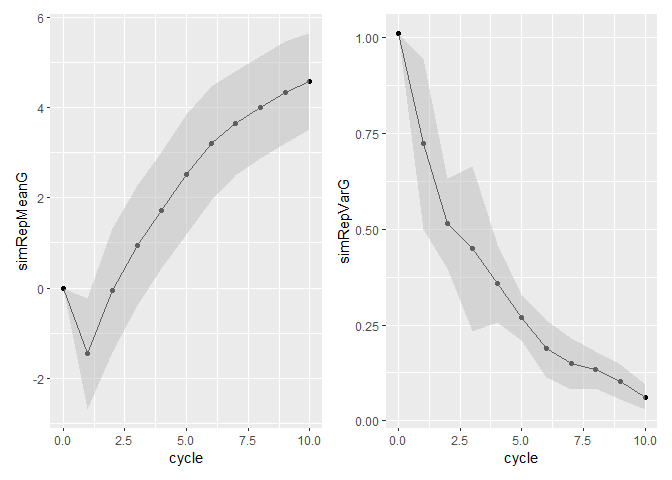
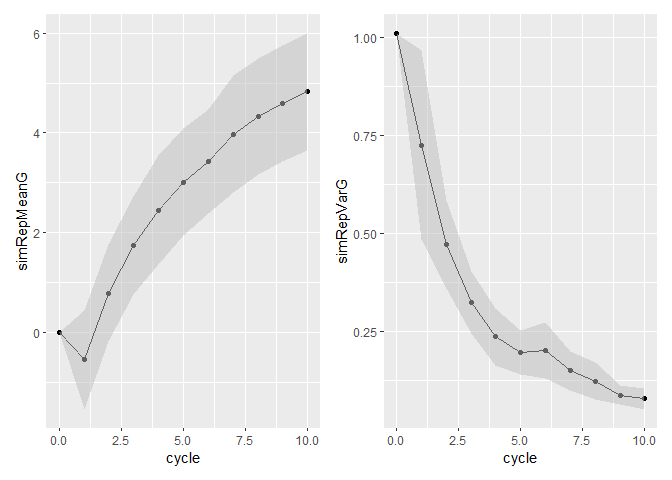
code

diff --git a/repd_domestication_simulation.md b/repd_domestication_simulation.md
@@ -83,17 +83,17 @@ tidySimOutput
     ## # A tibble: 11 x 4
     ##    Cycle Sims       meanG   varG
     ##    <int> <list>     <dbl>  <dbl>
-    ##  1     0 <Pop>  -4.44e-17 1.01  
-    ##  2     1 <Pop>   1.60e+ 0 0.461 
-    ##  3     2 <Pop>   2.74e+ 0 0.406 
-    ##  4     3 <Pop>   3.66e+ 0 0.225 
-    ##  5     4 <Pop>   4.22e+ 0 0.215 
-    ##  6     5 <Pop>   4.98e+ 0 0.0797
-    ##  7     6 <Pop>   5.28e+ 0 0.0787
-    ##  8     7 <Pop>   5.53e+ 0 0.115 
-    ##  9     8 <Pop>   5.88e+ 0 0.0597
-    ## 10     9 <Pop>   6.20e+ 0 0.0415
-    ## 11    10 <Pop>   6.43e+ 0 0.0186
+    ##  1     0 <Pop>  -4.33e-17 1.01  
+    ##  2     1 <Pop>   1.18e+ 0 0.568 
+    ##  3     2 <Pop>   2.25e+ 0 0.564 
+    ##  4     3 <Pop>   3.72e+ 0 0.345 
+    ##  5     4 <Pop>   4.41e+ 0 0.292 
+    ##  6     5 <Pop>   4.76e+ 0 0.317 
+    ##  7     6 <Pop>   5.65e+ 0 0.230 
+    ##  8     7 <Pop>   6.30e+ 0 0.121 
+    ##  9     8 <Pop>   6.44e+ 0 0.0698
+    ## 10     9 <Pop>   6.63e+ 0 0.0381
+    ## 11    10 <Pop>   6.77e+ 0 0.0323
 
 Making A Kinship Matrix & Using for Mixed Model
 
@@ -172,37 +172,18 @@ ans <- mmer(trait~1,
 
     ## Adding additional levels of Gu in the model matrix of 'id' 
     ## iteration    LogLik     wall    cpu(sec)   restrained
-    ##     1      -49.5987   10:7:34      0           0
-    ##     2      -49.5378   10:7:34      0           0
-    ##     3      -49.5067   10:7:34      0           1
-    ##     4      -49.5   10:7:34      0           1
-    ##     5      -49.5   10:7:34      0           1
+    ##     1      -49.8108   10:16:19      0           0
+    ##     2      -49.574   10:16:19      0           1
+    ##     3      -49.5   10:16:19      0           1
+    ##     4      -49.5   10:16:19      0           1
 
 ``` r
-summary(ans)
+summary(ans)$varcomp
 ```
 
-    ## ============================================================
-    ##          Multivariate Linear Mixed Model fit by REML         
-    ## **********************  sommer 4.1  ********************** 
-    ## ============================================================
-    ##       logLik AIC      BIC Method Converge
-    ## Value  -49.5 101 103.6052     NR     TRUE
-    ## ============================================================
-    ## Variance-Covariance components:
-    ##                   VarComp VarCompSE Zratio Constraint
-    ## u:id.trait-trait   0.0000   0.17627  0.000   Positive
-    ## units.trait-trait  0.5024   0.08451  5.944   Positive
-    ## ============================================================
-    ## Fixed effects:
-    ##   Trait      Effect Estimate Std.Error t.value
-    ## 1 trait (Intercept)    6.292   0.07088   88.77
-    ## ============================================================
-    ## Groups and observations:
-    ##      trait
-    ## u:id  1100
-    ## ============================================================
-    ## Use the '$' sign to access results and parameters
+    ##                     VarComp  VarCompSE   Zratio Constraint
+    ## u:id.trait-trait  0.0000000 0.13745167 0.000000   Positive
+    ## units.trait-trait 0.4824188 0.08085857 5.966204   Positive
 
 ``` r
 library(AlphaSimR)
